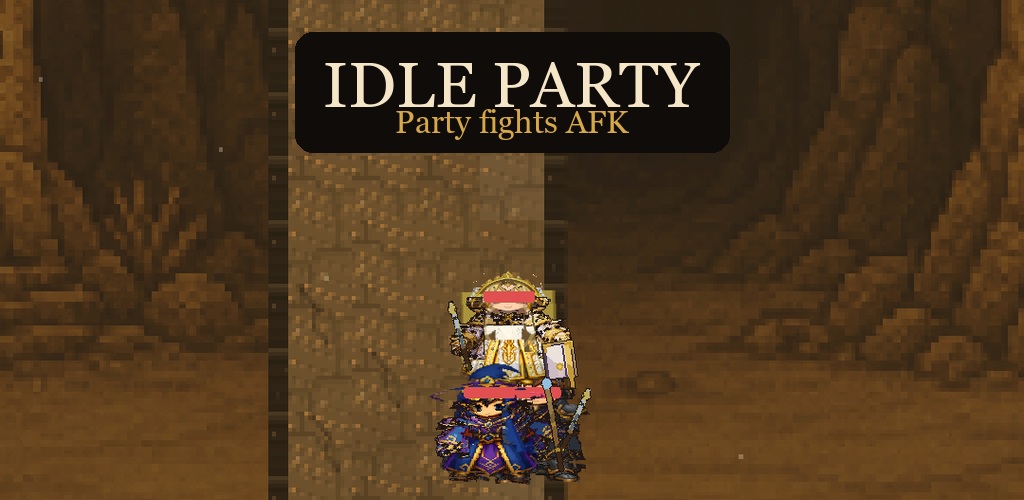
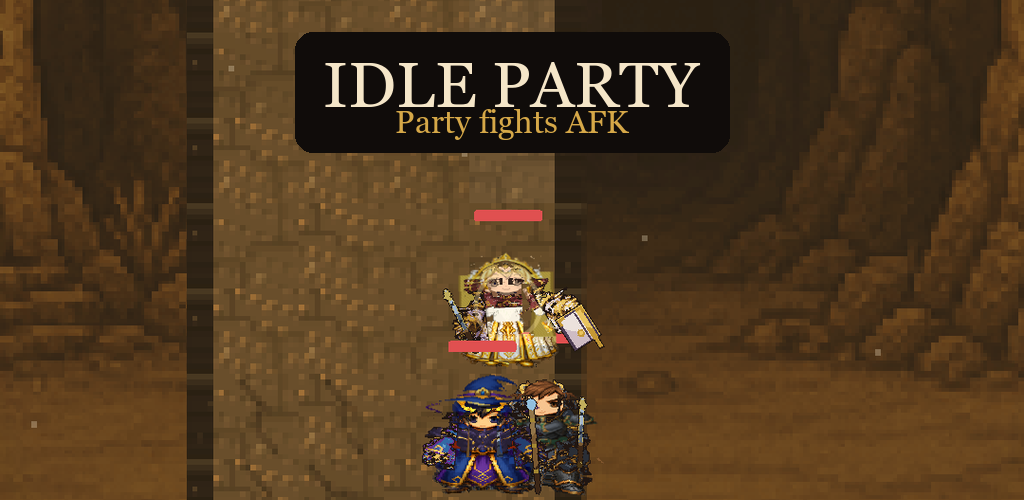
Cut 1.13.0 locally, because the party now keeps fighting and the store page still showed the old hub.

Changed region(s): [[0.1562, 0.0, 0.5938, 1.0], [0.5312, 0.0, 0.5625, 0.06], [0.3438, 0.3, 0.375, 0.33]]

diff --git a/lib/core/changelog.dart b/lib/core/changelog.dart
@@ -86,10 +86,40 @@ class ChangelogRelease {
 /// Patch notes catalog. A version bump edits this file and pubspec.yaml.
 abstract final class ChangelogCatalog {
   /// Current build's changelog version. Keep in sync with pubspec version.
-  static const String currentVersion = '1.12.195';
+  static const String currentVersion = '1.13.0';
 
   /// Structured releases, newest first. Older highlights are condensed.
   static const List<ChangelogRelease> releases = <ChangelogRelease>[
+    ChangelogRelease(
+      version: '1.13.0',
+      date: 'Oct 13, 2026',
+      summary:
+          'Your party fights on its own. Tap ENTER DUNGEON. After a wipe they stand back up, and better gear goes on while they fight.',
+      added: <String>[
+        'AUTO EQUIP in GEAR wears a stronger piece during the fight, and while the app is closed.',
+        'Spire Trophies sit on the Gauntlet card. Each squeeze under each pact pays essence the first time. A full row grants a title. All 12 grant 1 STAR.',
+      ],
+      changed: <String>[
+        'After a wipe the party counts down and fights again. Two misses on a new floor farm the floor below, then push that floor.',
+        'While the app is closed, a wipe farms the safe floor instead of stopping.',
+        'Welcome Back lists floors, kills, levels, the best drop, and why the catch-up stopped.',
+        'The quiet ping asks after the first cleared floor. A closed cave pings once if it hits the time cap.',
+        'A cleared floor shows a short line with gold, XP, and the best drop. Loot is sucked in once.',
+        'Crits say CRIT. A boss room plays its sound when it opens.',
+        'Screen shake has its own switch. Enemy health bars hide until that foe is hurt.',
+        'PATH still runs Sandy through Mothveil (Tidehold, Ashen Vault, Hollow Grove, Stormwake, Rimeglass, Blightfen, Brassvault).',
+        'At party Lv100, MORE → CRAFT still runs a monthly Craft Trial.',
+        'Race still locks after New Game START.',
+        'KEY waits until every active hero is Lv100.',
+        'Ranked GR packs still scale with rank only. GOLD → FORGE does not buff monsters.',
+        'Ascend still says Rebuild your bag. At AL 20, BLESSING still has optional REBORN.',
+      ],
+      fixed: <String>[
+        'The party row on a phone no longer clips names.',
+        'Boss warnings stay on top of other fight text.',
+        'A full bag says Bag full.',
+      ],
+    ),
     ChangelogRelease(
       version: '1.12.195',
       date: 'Oct 11, 2026',

diff --git a/test/changelog_sync_test.dart b/test/changelog_sync_test.dart
@@ -91,8 +91,8 @@ void main() {
   test('current patch notes name the version, date, and sections', () {
     final release = MetaSystems.releases.first;
     expect(release.summary, isNotNull);
-    expect(release.date, 'Oct 11, 2026');
-    expect(release.versionLine, 'VERSION ${release.version} — Oct 11, 2026');
+    expect(release.date, 'Oct 13, 2026');
+    expect(release.versionLine, 'VERSION ${release.version} — Oct 13, 2026');
     expect(release.changed, isNotEmpty);
     expect(release.technical, isEmpty);
     expect(release.known, isEmpty);

diff --git a/tool/store_listing/capture_a56_shots.py b/tool/store_listing/capture_a56_shots.py
@@ -39,6 +39,72 @@ SHOWCASE = LISTING / "showcase_save.json"
 STABLE = LISTING / "showcase_stable.json"
 
 
+def tap_low(xml: str, label: str) -> bool:
+    """Tap near the bottom of the largest node that contains this label.
+
+    Patch Notes exposes one Dismiss node for the whole card. Its center is
+    the body text, and GOT IT sits at the bottom of that card.
+    """
+    best: tuple[int, int, int, int, int] | None = None
+    for node in re.findall(r"<node\b[^>]*>", xml):
+        blob = " ".join(re.findall(r'(?:text|content-desc)="([^"]*)"', node))
+        if label not in blob:
+            continue
+        bounds = re.search(
+            r'bounds="\[(\d+),(\d+)\]\[(\d+),(\d+)\]"',
+            node,
+        )
+        if bounds is None:
+            continue
+        x1, y1, x2, y2 = (int(v) for v in bounds.groups())
+        area = max(0, x2 - x1) * max(0, y2 - y1)
+        if area < 8000:
+            continue
+        if best is None or area > best[0]:
+            best = (area, x1, y1, x2, y2)
+    if best is None:
+        return False
+    _, x1, y1, x2, y2 = best
+    x = (x1 + x2) // 2
+    y = y1 + int((y2 - y1) * 0.86)
+    adb("shell", "input", "tap", str(x), str(y), check=False)
+    print("tap low", label, x, y)
+    return True
+
+
+def tap_exact(xml: str, label: str) -> bool:
+    """Tap the largest node whose own text is this label, not a longer one."""
+    best: tuple[int, int, int] | None = None
+    for node in re.findall(r"<node\b[^>]*>", xml):
+        texts = re.findall(r'(?:text|content-desc)="([^"]*)"', node)
+        if label not in texts and not any(t.startswith(f"{label} ") for t in texts):
+            continue
+        bounds = re.search(
+            r'bounds="\[(\d+),(\d+)\]\[(\d+),(\d+)\]"',
+            node,
+        )
+        if bounds is None:
+            continue
+        x1, y1, x2, y2 = (int(v) for v in bounds.groups())
+        area = max(0, x2 - x1) * max(0, y2 - y1)
+        if area < 2000:
+            continue
+        if best is None or area > best[0]:
+            best = (area, (x1 + x2) // 2, (y1 + y2) // 2)
+    if best is None:
+        return False
+    adb(
+        "shell",
+        "input",
+        "tap",
+        str(best[1]),
+        str(best[2]),
+        check=False,
+    )
+    print("tap", label, best[1], best[2])
+    return True
+
+
 def tap_node(xml: str, label: str) -> bool:
     for node in re.findall(r"<node\b[^>]*>", xml):
         if f'content-desc="{label}"' not in node and f'text="{label}"' not in node:
@@ -164,7 +230,21 @@ def shoot_first_minute() -> None:
     xml = wait_any(("RETURN",), timeout=12)
     if not xml or not tap_node(screen_text() or xml, "RETURN"):
         raise SystemExit("RETURN not on the leave confirm")
-    time.sleep(2.5)
+    time.sleep(1.2)
+    # A new version opens Patch Notes over the hub. The listing shot is TODAY.
+    # The button reads GOT IT; semantics often say Dismiss.
+    for _ in range(6):
+        xml = screen_text()
+        if xml and "PATCH NOTES" not in xml and "ENTER DUNGEON" in xml:
+            break
+        if (
+            tap_low(xml, "GOT IT")
+            or tap_exact(xml, "GOT IT")
+            or tap_exact(xml, "Dismiss")
+        ):
+            time.sleep(1.2)
+            continue
+        time.sleep(0.5)
     screencap("03_hub_today.png")
 
 
@@ -223,14 +303,30 @@ def shoot_showcase() -> None:
     open_played_slot()
     time.sleep(0.8)
     screencap("07_return.png")
-    # NICE is the lower button on Welcome Back. ASCEND +16e sits between
-    # ENTER DUNGEON (label ~1800) and DAILY RUN (~2064).
-    adb("shell", "input", "tap", "540", "1670", check=False)
-    print("tap NICE")
-    time.sleep(1.1)
-    adb("shell", "input", "tap", "540", "1948", check=False)
-    print("tap ASCEND")
-    time.sleep(0.8)
+    xml = screen_text()
+    for label in ("NICE", "CLAIM", "GOT IT"):
+        if tap_exact(xml, label):
+            break
+    opened = False
+    deadline = time.time() + 10
+    while time.time() < deadline:
+        xml = screen_text()
+        if not xml:
+            time.sleep(0.6)
+            continue
+        if "WELCOME BACK" in xml or "Welcome back" in xml:
+            time.sleep(0.4)
+            continue
+        if tap_exact(xml, "ASCEND"):
+            opened = True
+            break
+        time.sleep(0.5)
+    if not opened:
+        # The hub dump goes blank while the card closes. ASCEND sits under
+        # ENTER DUNGEON on this phone.
+        adb("shell", "input", "tap", "540", "1888", check=False)
+        print("tap ASCEND fallback")
+        time.sleep(1.0)
     screencap("08_ascend.png")
 
 

diff --git a/docs/PLAY_STORE.md b/docs/PLAY_STORE.md
@@ -9,7 +9,7 @@ Package id: **`com.idleparty.app`**
 | Primary installs | ✅ Google Play | Store listing live; closed test for early builds |
 | Play Console app | ✅ Exists | `com.idleparty.app` — listing + closed Alpha + production |
 | Closed testing | ⏳ | Last Alpha upload **1.12.133 (163)** (2026-09-10). Production **187** was not mirrored to Alpha this round. |
-| Production | ✅ live | **1.12.194 (224)** is the published build. **1.12.195 (225)** was uploaded **2026-10-11** and is `in review` (full rollout). Live stays **1.12.194** until Google publishes. Managed publishing is off. |
+| Production | ✅ live | **1.12.194 (224)** is the published build. **1.12.195 (225)** was uploaded **2026-10-11** and is `in review` (full rollout). **1.13.0 (226)** was built locally **2026-10-13** and is not uploaded. Live stays **1.12.194** until Google publishes. Managed publishing is off. |
 | CI signing secrets | ⏳ | `KEYSTORE_BASE64` + `KEY_PROPERTIES` (never commit). Workflow now writes keystore to `android/upload-keystore.jks` (matches `storeFile=../upload-keystore.jks`). **v1.12.52 GitHub AAB was debug-signed** — Play used a local upload rebuild; re-tag/rebuild after secrets path fix. |
 | Privacy URL opens in browser | ✅ | Console: `https://github.com/Mahinika/Idle-Party/blob/main/docs/PRIVACY.md` (fixed 2026-09-08; was wrongly on old `cursor/keystone-habit-b46b` branch). |
 | Data safety form | ⏳ review | Device or other IDs: collected and shared, optional, stored. Purposes **App functionality** (friend invite), **Analytics**, and **Advertising**. In the same review as Production **221** (Publishing overview **2026-09-29**). Matches [PRIVACY.md](PRIVACY.md). |
@@ -18,7 +18,7 @@ Package id: **`com.idleparty.app`**
 | Store listing copy (EN + 9 locales) | ✅ live | Default locale **en-US** + 9 translations committed **2026-09-25** (`sv-SE`, `es-ES`, `pt-BR`, `de-DE`, `fr-FR`, `ru-RU`, `id`, `ko-KR`, `ja-JP`). In-game UI stays English. |
 | Store contact email | ✅ | **cognifoxstudio@gmail.com** (Play Butiksinställningar; also in `docs/PRIVACY.md`). Login account may still be Robertjonsson90@gmail.com — that is Console login only, not public. |
 | Screenshots + feature graphic | ✅ live | **8 A56 phone shots** and feature graphic `feature_20261004.png` are on the public page **2026-10-04**. Tablet shots are still the older title screen, hub menu, and FARM/PUSH floor. |
-| Listing assets freshness | shots 2026-10-04 @ 1.12.194 · video 2026-10-04 @ 1.12.194 · icon 2026-10-04 @ 1.12.194 · feature 2026-10-04 @ 1.12.194 | Phone shots and the Sandy preview match live **1.12.194**. They are one patch behind the **1.12.195** candidate. `store_listing_plan_test` fails when `ChangelogCatalog.currentVersion` drifts more than one patch. |
+| Listing assets freshness | shots 2026-10-13 @ 1.13.0 · video 2026-10-13 @ 1.13.0 · icon 2026-10-13 @ 1.13.0 · feature 2026-10-13 @ 1.13.0 | Phone shots, Sandy preview, icon, and feature graphic were reshot locally **2026-10-13** for **1.13.0**. Not uploaded. `store_listing_plan_test` fails when `ChangelogCatalog.currentVersion` drifts more than one patch. |
 | Preview video (YouTube) | ✅ sent | Every listing locale (11, including `pl-PL`) points at public Cognifox `cyBlN3HCR48` (`https://www.youtube.com/watch?v=cyBlN3HCR48`), committed **2026-10-04**. oEmbed works. Ads off, embed on, not for kids. YouTube filed the 9:16 film as a Short. Previous unlisted `UHLG28lHmPs`. `XfKog5CAiUs` stays unused (Play rejected that embed). |
 | Ads declaration | ✅ fixed | Was **No ads** (wrong). Set to **Yes, contains ads** 2026-09-08 (hub POWERUPS / AdMob). In review with Alpha **135**. |
 | Advertising ID | ✅ | Yes + advertising purpose; AD_ID in manifest. Cleared mistaken “disable AD_ID version errors” checkbox 2026-09-08. |
@@ -74,6 +74,7 @@ Track closed testers who **install from Play** and stay opted in:
 - [x] Signed Production AAB **1.12.195+225** built locally **2026-10-11** (`app-release.aab`, 106.5 MB).
 - [x] Owner asked upload of Production **1.12.195+225** (**2026-10-11**).
 - [x] Signed Production AAB **1.12.195+225** uploaded via Play API and sent for review (full rollout). API: **1.12.195 (225)** `in review`. Live store build remains **1.12.194 (224)** until Google publishes.
+- [x] Signed Production AAB **1.13.0+226** built locally **2026-10-13** (`app-release.aab`, 106.7 MB). Not uploaded.
 
 ### Production upload paste (en-US release notes)
 
@@ -83,6 +84,15 @@ Notes sent with **1.12.194 (224)**:
 • Swords, bows, and spells sound like the weapons they are.
 • A bowstring plays when an arrow leaves, and a spell plays when it is cast.
 • The hub and caves rotate songs, with a quiet stretch between them.
+```
+
+Notes ready for **1.13.0 (226)**. Not sent. Upload only when asked:
+
+```
+• After a wipe the party stands back up. Two misses farm the floor below.
+• AUTO EQUIP wears a stronger piece while they fight.
+• Welcome Back says what they did while you were away.
+• The Spire has trophies. A full row grants a title. All 12 grant 1 STAR.
 ```
 
 Notes sent with **1.12.195 (225)** on **2026-10-11**. In review, not live yet. 287 characters:

diff --git a/AGENTS.md b/AGENTS.md
@@ -89,6 +89,11 @@ A second sim is not forbidden (owner 2026-09-26).
 plus slow essence, not combat. PUSH clear +1 essence, boss +2; FARM and
 Gauntlet pay 0.
 
+A PUSH wipe counts down 3 seconds and continues. Two fails on the same new
+floor farm the floor below until one clear, then push again. Offline farms
+that safe floor instead of stopping. Gauntlet, Rifts, and the daily keep
+their own rules.
+
 **Content:** 10 classes / 31 specs · 15 zones through Mothveil Hollow.
 Hero cap `maxHeroLevel` 100 (combat XP only). Ascend cap AL20.
 Endgame (KEY, Gauntlet, Rifts, Greater Rifts, Ashen, Craft Trial) unlocks
@@ -97,7 +102,7 @@ when the **active party is all Lv100**, not at AL20 alone.
 | Hunt | Where |
 |------|--------|
 | KEYSTONE | Hub KEY. No KEY tab before party Lv100. |
-| Gauntlet | Endless Crystal Spire. Boss every 5 floors. |
+| Gauntlet | Endless Crystal Spire. Boss every 5 floors. Spire Trophies: each squeeze under each pact, kept on Ascend. |
 | Rifts | Stormwake Hollow. No fail timer. |
 | Greater Rifts | Mothveil Hollow. Timed. Local season PB. |
 | Ashen Crown | Weekly ticket. Rotates shipped caves. Not zone 16. |
@@ -168,6 +173,7 @@ stamina is STA.
 - Sprite paths go through `CustomAssets` or `KenneyAssets`. `assets/data/*.json` from core is fine. Pixel sprites use `FilterQuality.none`.
 - LOADOUTS tab is hidden. Armor 2pc/4pc are sets, not loadouts.
 - BiS / UPGRADE use budget score only (`docs/GEAR_BUDGET.md`).
+- AUTO EQUIP (GEAR, on by default) wears a budget upgrade during the fight and while the app is closed. Ranked GR stays manual. Kept on Ascend.
 - Split a giant file when a change needs a home. Do not grow `game_logic` / `spatial_combat`. New HUD goes under `lib/ui/shell/`.
 - SpatialCombat is the current fight sim. A second sim is not forbidden.
 
@@ -175,8 +181,8 @@ stamina is STA.
 
 **Keeps:** hero levels/XP, open zones, essence, Embers, Cinders, relics, pets, sanctuary,
 God Hand, Apex, soulbound, settings, unlocked specs, full `metaDepth`
-(bests, blessings, constellation, Craft Trial, ad tickets and timers,
-shop entitlements, coupons, Play opt-in).
+(bests, blessings, constellation, Craft Trial, Spire Trophies, ad tickets and timers,
+shop entitlements, coupons, Play opt-in), plus AUTO EQUIP.
 
 **Resets:** wallet gold, forge tracks, worn/stash drops, market, loadouts,
 `highestFloorCleared`. Sets `freshPrestige`. Clears boss victories, wipe

diff --git a/docs/STORE_LISTING.md b/docs/STORE_LISTING.md
@@ -133,6 +133,15 @@ Live Production: **1.12.194 (224)**, full rollout, track `completed` (Play paste
 • The hub and caves rotate songs, with a quiet stretch between them.
 ```
 
+Notes ready for **1.13.0 (226)**. Not sent. Upload only when asked:
+
+```
+• After a wipe the party stands back up. Two misses farm the floor below.
+• AUTO EQUIP wears a stronger piece while they fight.
+• Welcome Back says what they did while you were away.
+• The Spire has trophies. A full row grants a title. All 12 grant 1 STAR.
+```
+
 Notes sent with **1.12.195 (225)** on **2026-10-11**. In review, not live yet. 287 characters:
 
 ```
